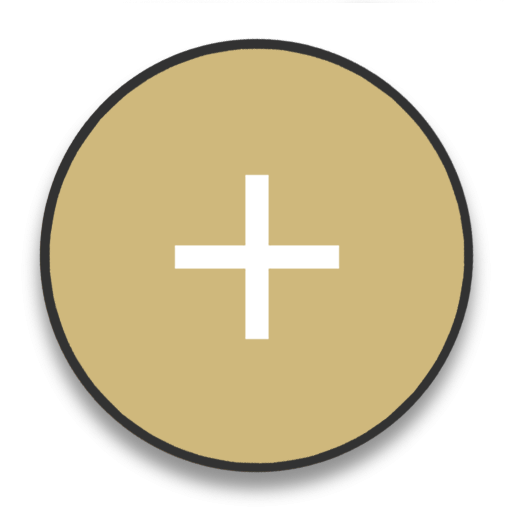
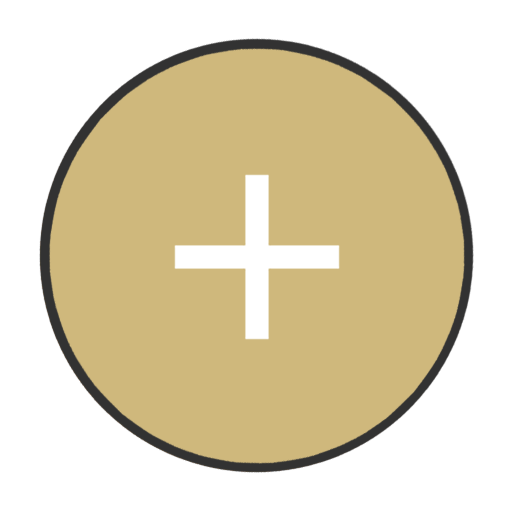
Added sticky footer and updated button graphics

Changed region(s): [[0.0625, 0.375, 0.9375, 0.9688]]

diff --git a/siteMockup/style.css b/siteMockup/style.css
@@ -73,6 +73,14 @@ div.expandbutton {
 	border-top-width: 1px;
 	height: .8cm;
 }
+div.footer { /* content at the bottom of the screen */
+	background-color: darkgray;
+	width: fill;
+	font-size: 10pt;
+	text-align: center;
+	padding-top: .5cm;
+	/* the height of the footer element should be changed in the sticky footer code at the BOTTOM of this file */
+}
 
 h1 {
 
@@ -155,3 +163,28 @@ div.clickable { /* clickable elements have the hand cursor on them */
 div.clickable:hover { /* color indication on link hover */
   background-color: #CFB87C;
 }
+
+/* 
+the following is code to implement the sticky footer:
+*/
+
+html, body {
+	height: 100%;
+}
+.wrapper {
+	min-height: 100%;
+	height: auto !important; /* This line and the next line are not necessary unless you need IE6 support */
+	height: 100%;
+	margin: 0 auto -2.5cm; /* the bottom margin is the negative value of the footer's height */
+}
+.footer, .push {
+	height: 2.5cm; /* .push must be the same height as .footer */
+	/* this is the height of the footer, edit it HERE, AND in the last line of the .wrapper element above */
+}
+
+/*
+
+Sticky Footer by Ryan Fait
+http://ryanfait.com/
+
+*/

diff --git a/siteMockup/mockup1.html b/siteMockup/mockup1.html
@@ -49,6 +49,8 @@
 		<link rel="stylesheet" href="style.css">
 	</head>
 	<body>
+		<div class="wrapper"> <!-- contains all the content besides footer, used for the sticky footer -->
+		
 		<h1 class="title">What's on the Buff(et)?</h1>
 		<p id="taglineContent" class="tagline">Because chicken nuggets won't find themselves.</p>
 		<div class="selector">
@@ -119,6 +121,11 @@
 			</div> <!-- collapsible -->
 
 		</div> <!-- location -->
+		<div class="push"></div> <!-- also used for sticky footer -->
+		</div> <!-- wrapper -->
+		<div class="footer">
+			footer content!<br>copyright and shit I dunno<br>we made this
+		</div>
 		
 	</body>
 <html>
